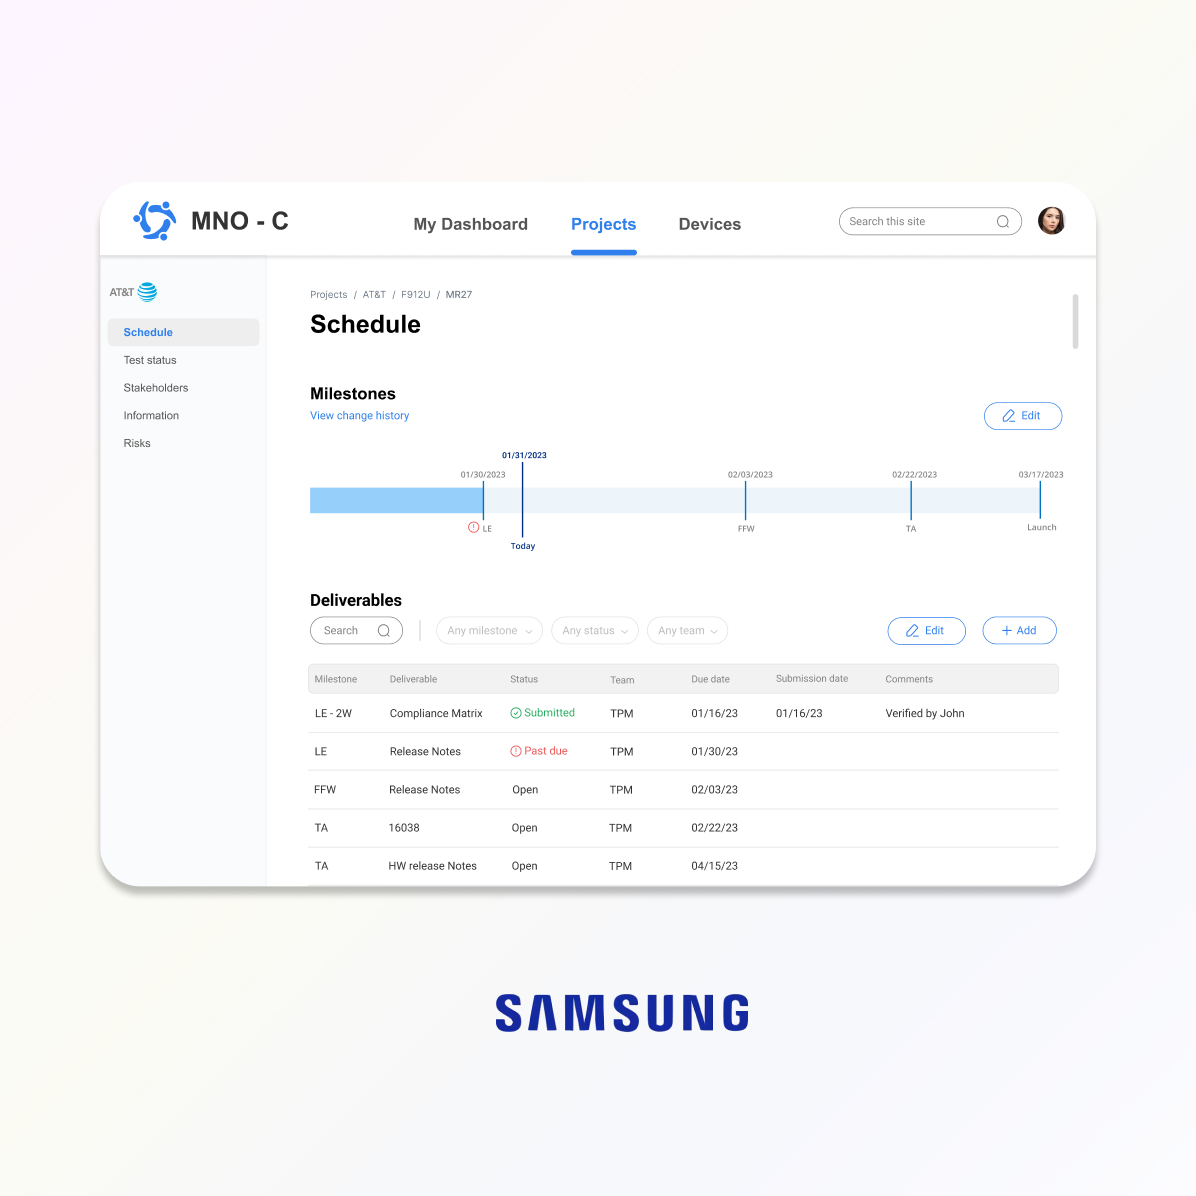
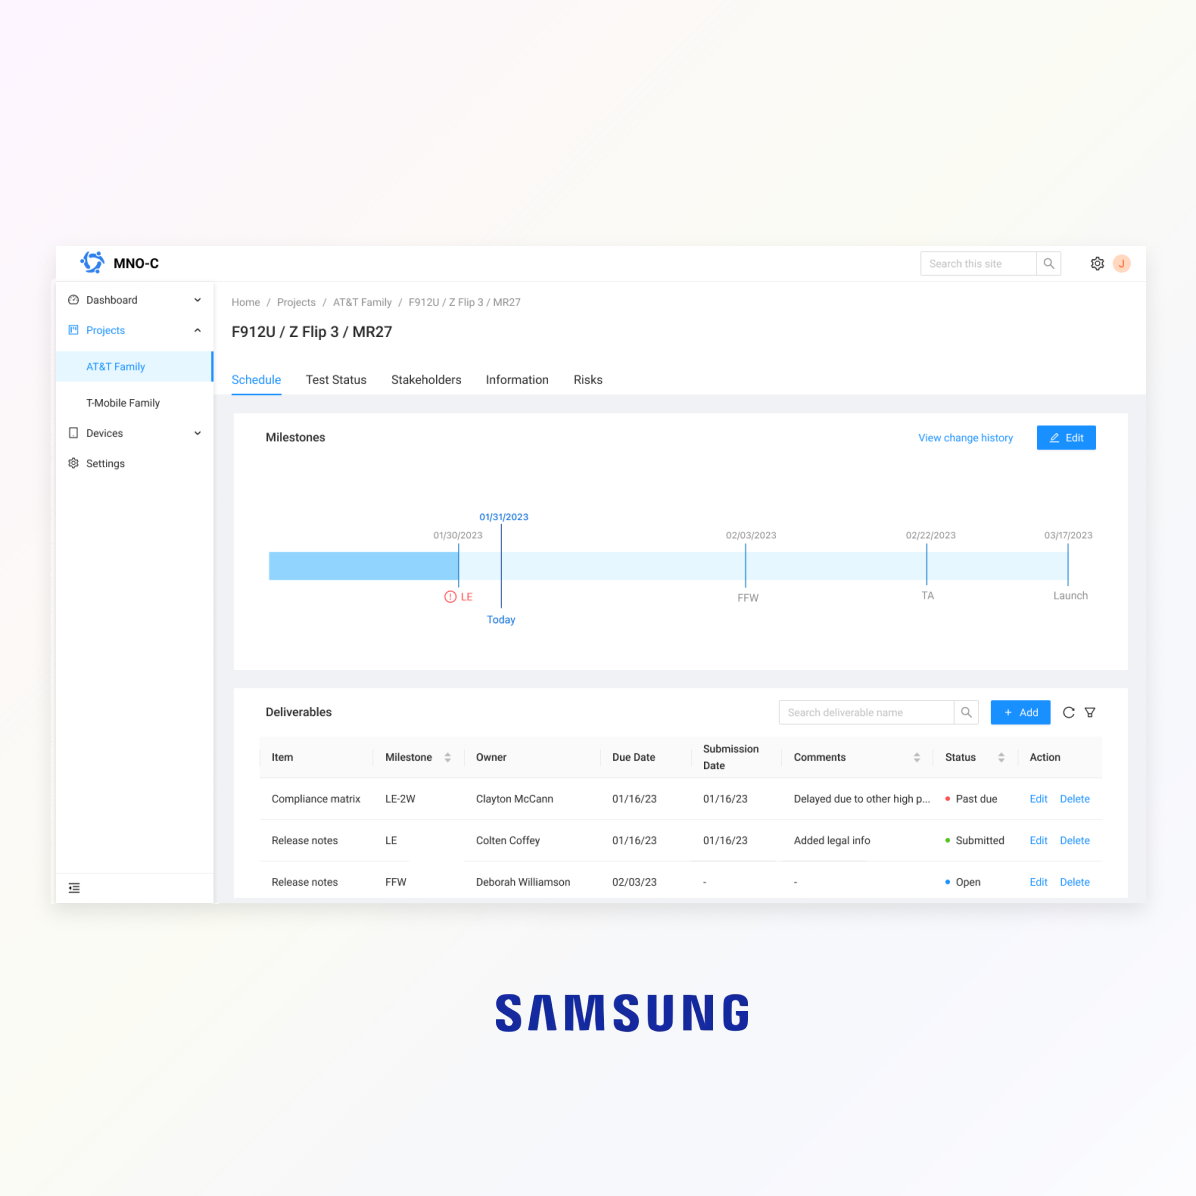
Updated detail

diff --git a/e288961731284b5f16acb25e017c0279a42c56fa/projects/MNOC.html b/e288961731284b5f16acb25e017c0279a42c56fa/projects/MNOC.html
@@ -152,7 +152,7 @@
  </div>
   
 <div class="container-fluid" style="padding-top:0vh">
-    <img src="img/mnoc_product.png" alt="sketch of ideas" class="responsive image fullImage">
+    <img src="img/mnoc_product_detail.png" alt="sketch of ideas" class="responsive image fullImage">
 
       </div> 
 	  
